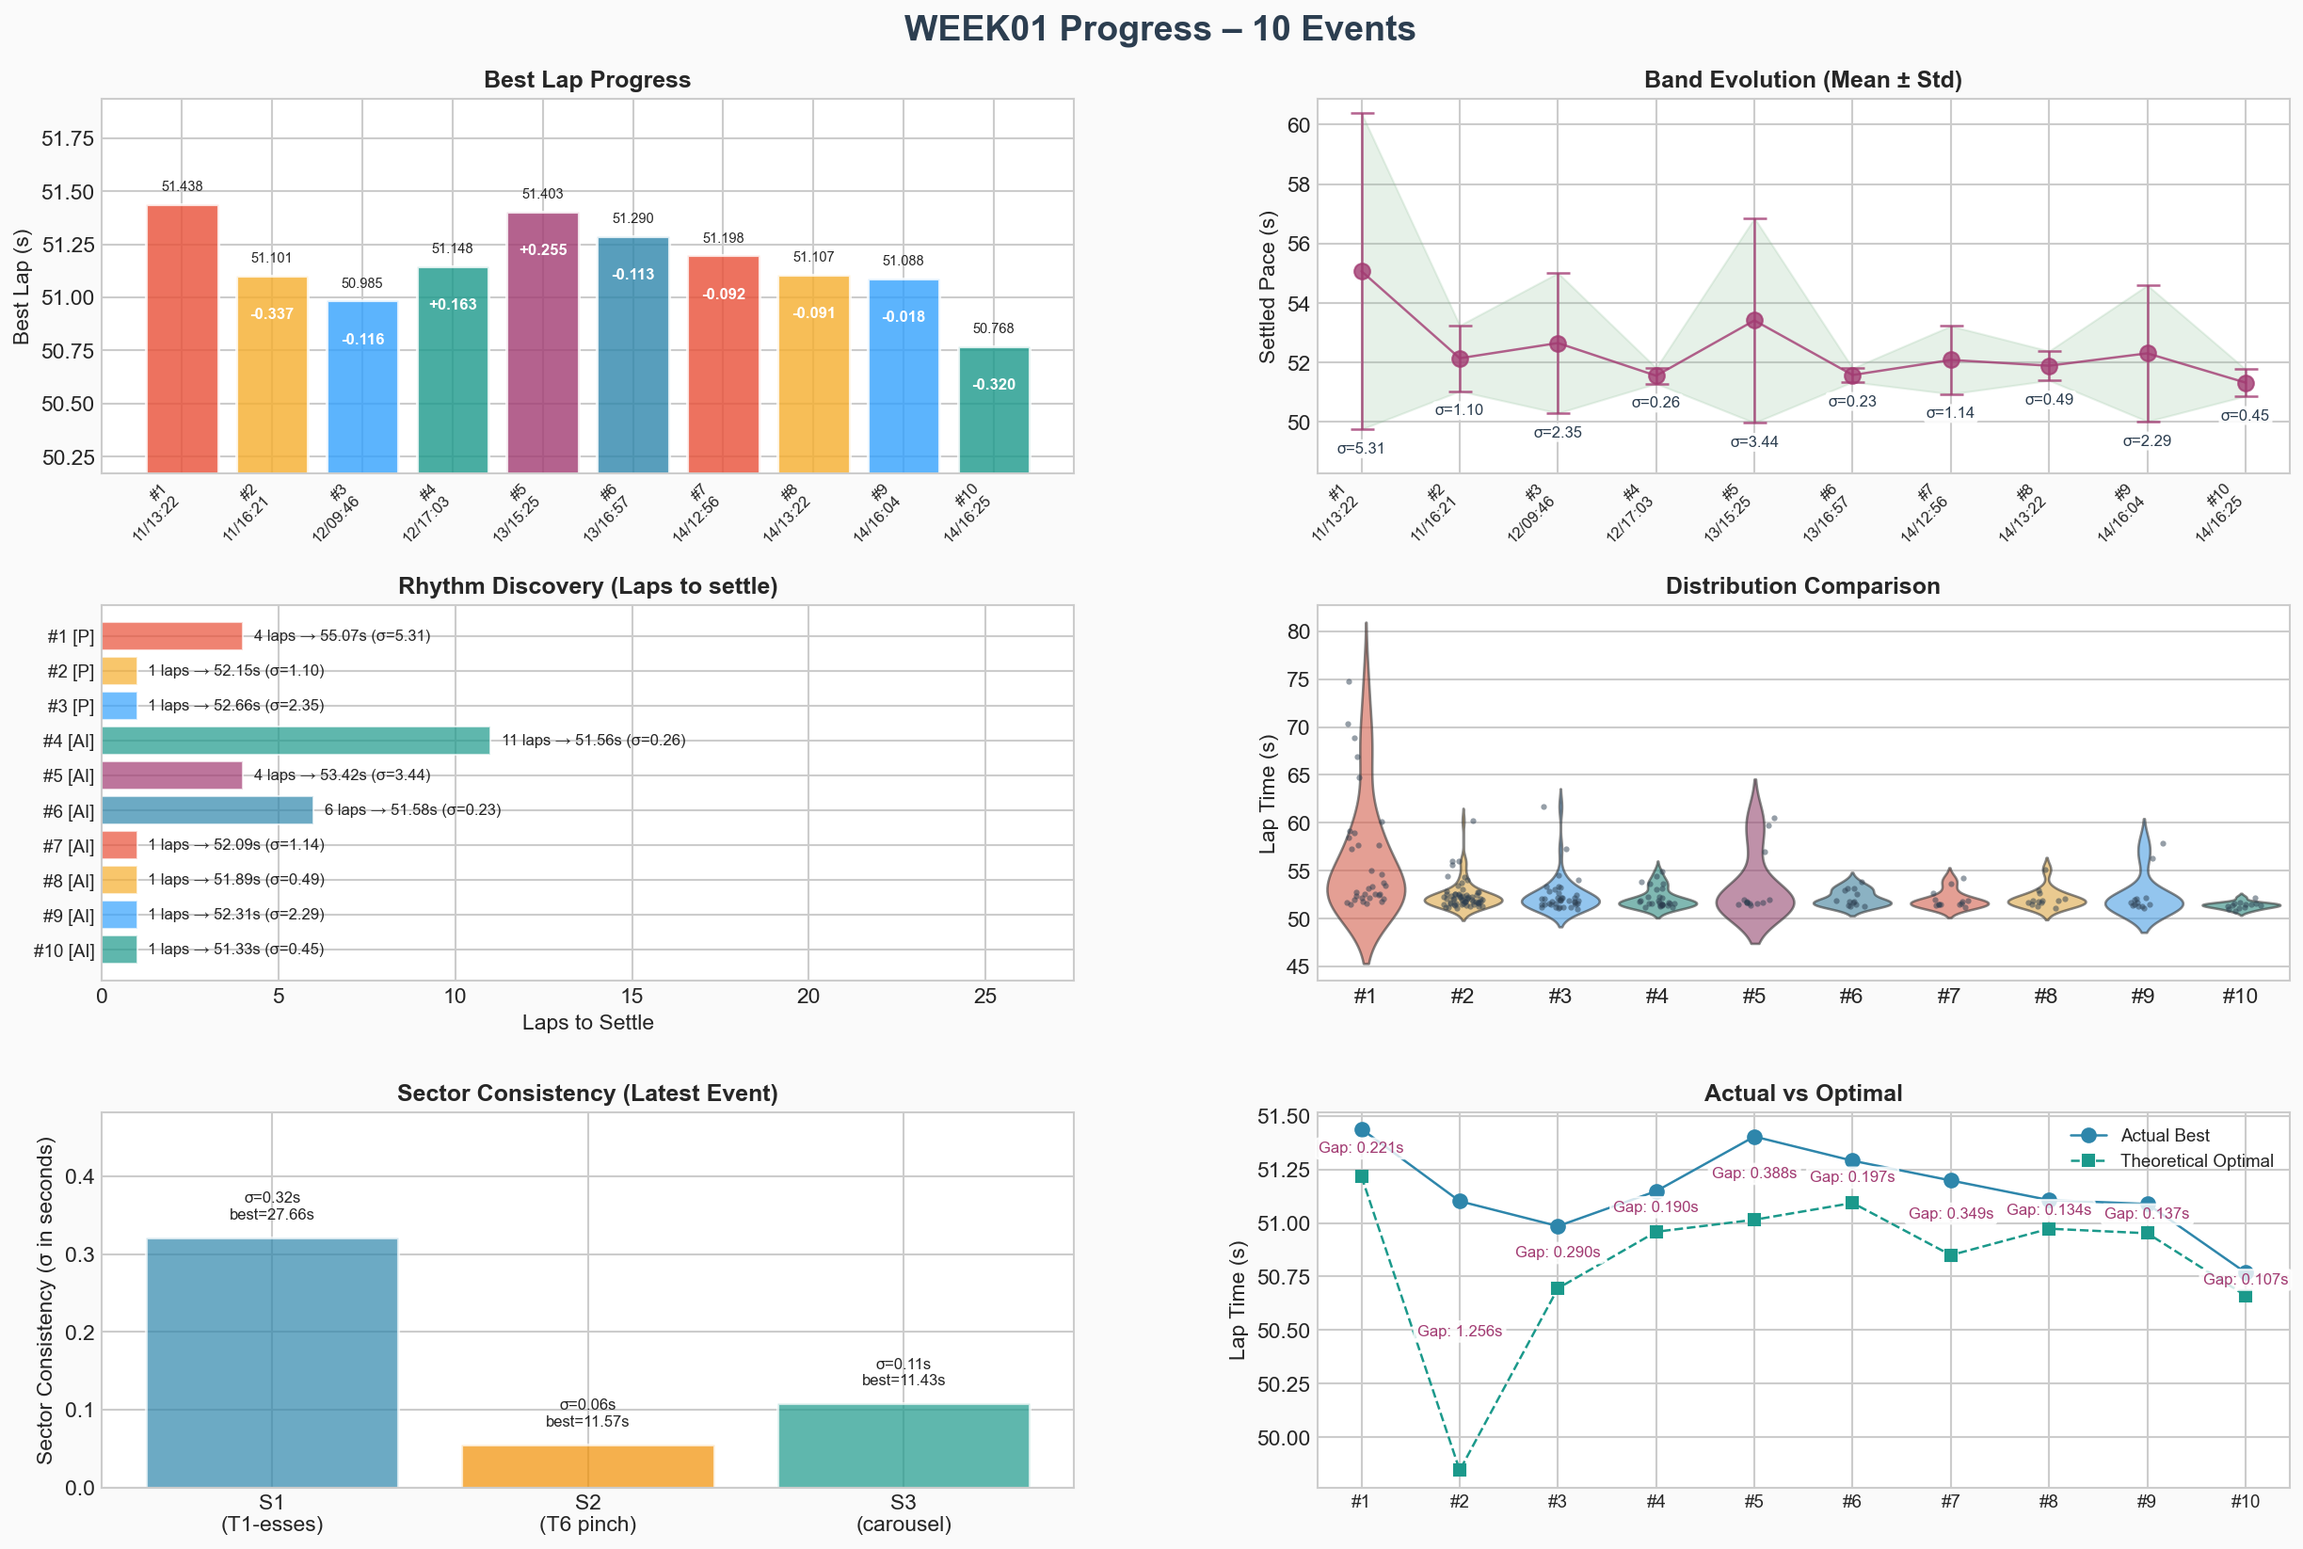
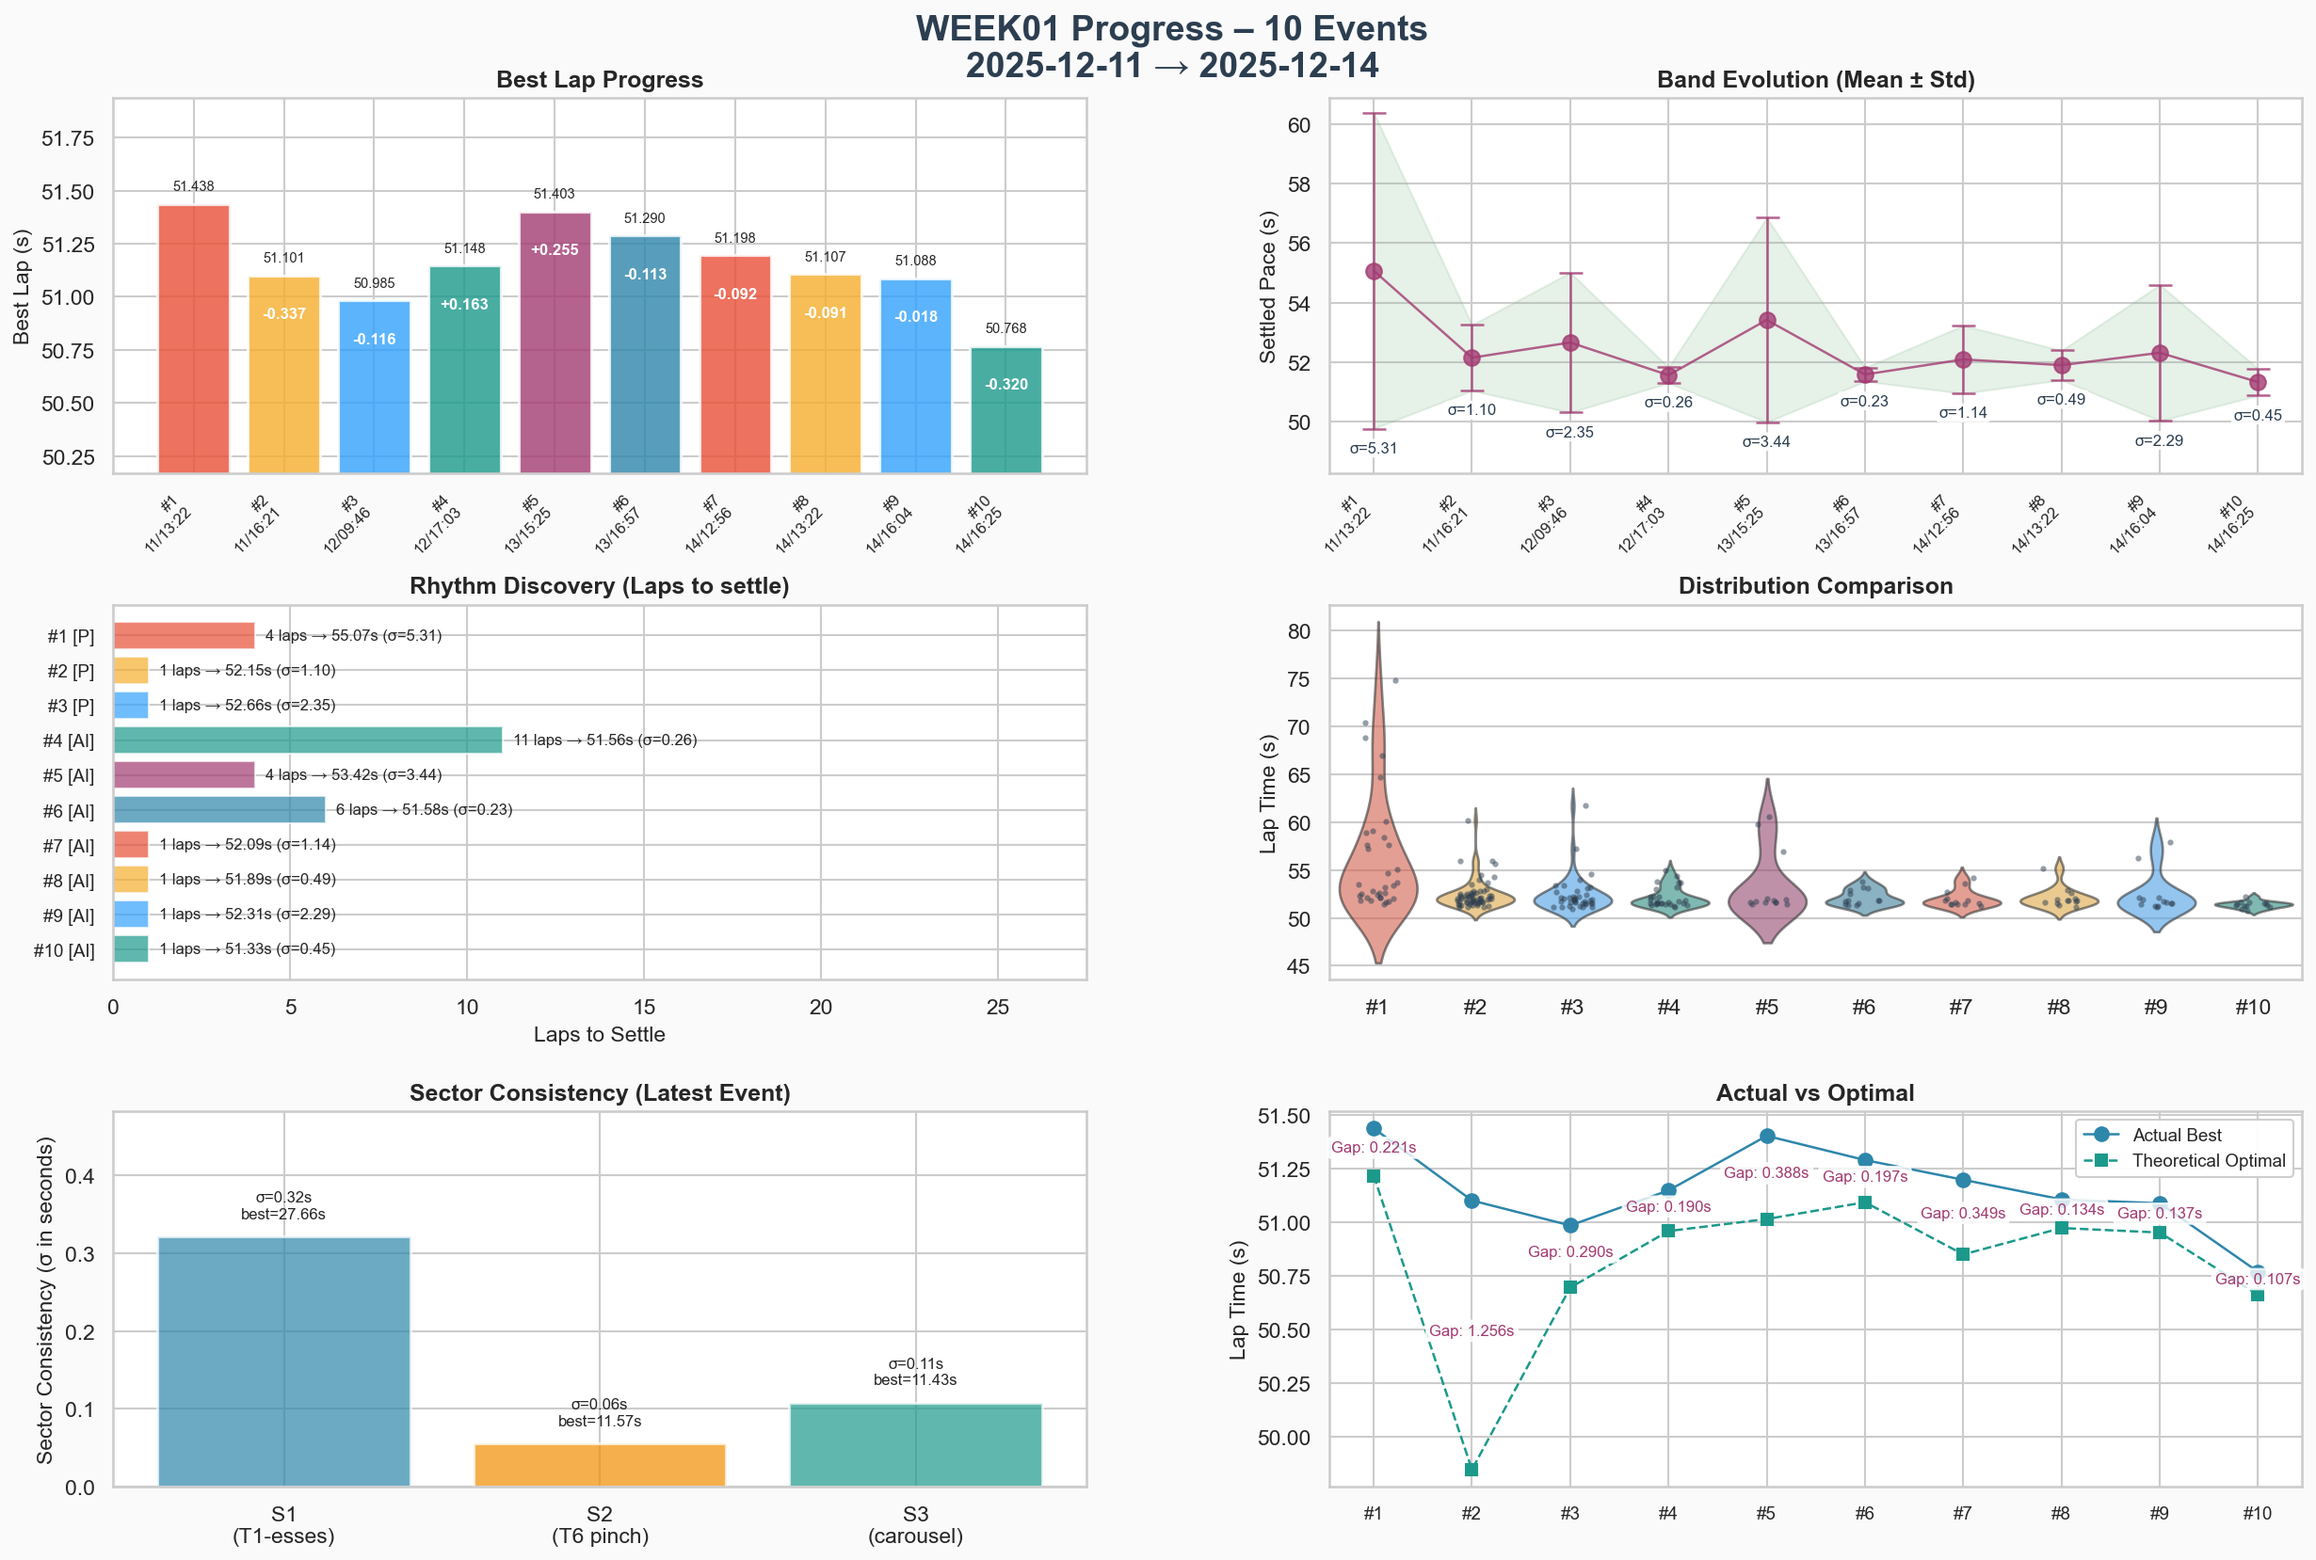
Update Week 01 documentation: revise event statistics to reflect additional practice events and improved lap times. Enhance key learning insights and update progress images for better clarity in performance metrics.

diff --git a/tools/add_event.py b/tools/add_event.py
@@ -103,10 +103,10 @@ def parse_event_stats(md_path: Path) -> dict:
     stats: dict[str, float | int] = {}
 
     # Match lines like: | **Label** | value |
-    row_re = re.compile(r"\|\s*\*{0,2}(.*?)\*{0,2}\s*\|\s*([0-9.]+)")
+    row_re = re.compile(r"\|\s*([^|]+?)\s*\|\s*([0-9.]+)")
 
     for label_raw, value_raw in row_re.findall(content):
-        label_norm = label_raw.strip().lower()
+        label_norm = label_raw.replace('*', '').strip().lower()
         key = METRIC_KEY_MAP.get(label_norm)
         if not key:
             continue

diff --git a/weeks/week01/README.md b/weeks/week01/README.md
@@ -12,17 +12,16 @@ week: 01
 
 | # | Date | Type | Laps | Best | σ | Notes | Details |
 |---|------|------|------|------|---|-------|---------|
-| 1 | 2025-12-11 | solo | ? | 0.000s | 0.00s | First contact | [→](events/01-2025-12-11-solo.md) |
-| 2 | 2025-12-11 | solo | ? | 0.000s | 0.00s | Finding rhythm | [→](events/02-2025-12-11-solo.md) |
-| 3 | 2025-12-12 | solo | ? | 0.000s | 0.00s | **PB lap** 🏆 | [→](events/03-2025-12-12-solo.md) |
-| 4 | 2025-12-12 | ai race | ? | 0.000s | 0.00s | Race pace! | [→](events/04-2025-12-12-ai-race.md) |
-| 5 | 2025-12-13 | ai race | ? | 0.000s | 0.00s | Patience test | [→](events/05-2025-12-13-ai-race.md) |
-| 6 | 2025-12-13 | ai race | ? | 0.000s | 0.00s | **Patience works** ✅ | [→](events/06-2025-12-13-ai-race.md) |
-| 7 | 2025-12-14 | ai race | ? | 0.000s | 0.00s | **Patience validated** | [→](events/07-2025-12-14-ai-race.md) |
-| 8 | 2025-12-14 | ai race | ? | 0.000s | 0.00s | **Ready for the grid** | [→](events/08-2025-12-14-ai-race.md) |
-| 9 | 2025-12-14 | ai race | ? | 0.000s | 0.00s | _Add notes..._ | [→](events/09-2025-12-14-ai-race.md) |
-| 10 | 2025-12-14 | ai race | 13 | 50.768s | 0.36s | _Add notes..._ | [→](events/10-2025-12-14-ai-race.md) |## Week Progress
-
+| 1 | 2025-12-11 | solo | 34 | 51.438s | 6.08s | First contact | [→](events/01-2025-12-11-solo.md) |
+| 2 | 2025-12-11 | solo | 63 | 51.101s | 1.47s | Finding rhythm | [→](events/02-2025-12-11-solo.md) |
+| 3 | 2025-12-12 | solo | 40 | 50.985s | 1.90s | **PB lap** 🏆 | [→](events/03-2025-12-12-solo.md) |
+| 4 | 2025-12-12 | ai race | 29 | 51.148s | 1.03s | Race pace! | [→](events/04-2025-12-12-ai-race.md) |
+| 5 | 2025-12-13 | ai race | 13 | 51.403s | 3.21s | Patience test | [→](events/05-2025-12-13-ai-race.md) |
+| 6 | 2025-12-13 | ai race | 13 | 51.290s | 0.81s | **Patience works** ✅ | [→](events/06-2025-12-13-ai-race.md) |
+| 7 | 2025-12-14 | ai race | 13 | 51.198s | 0.92s | **Patience validated** | [→](events/07-2025-12-14-ai-race.md) |
+| 8 | 2025-12-14 | ai race | 13 | 51.107s | 1.03s | **Ready for the grid** | [→](events/08-2025-12-14-ai-race.md) |
+| 9 | 2025-12-14 | ai race | 13 | 51.088s | 2.12s | _Add notes..._ | [→](events/09-2025-12-14-ai-race.md) |
+| 10 | 2025-12-14 | ai race | 13 | 50.768s | 0.36s | _Add notes..._ | [→](events/10-2025-12-14-ai-race.md) |
 ![Week Progress](images/week-progress.png)
 
 ## Lap Comparison
@@ -33,7 +32,7 @@ week: 01
 
 - **Events:** 10
 - **Best Lap:** 50.768s
-- **Improvement:** +0.000s (from 50.768s)
+- **Improvement:** +0.670s (from 51.438s)
 - **Latest σ:** 0.36s
 
 ## Reflection
@@ -64,3 +63,29 @@ week: 01
 ---
 
 [← Back to Season](../../README.md)
+
+
+---
+
+### Week Progress Summary
+
+![Week Progress](../images/week01/week-progress.png)
+
+| #   | Date        | Type     | Laps | Best    | Settled | σ     |
+| --- | ----------- | -------- | ---- | ------- | ------- | ----- |
+| 1   | 12/11 13:22 | Practice | 33   | 51.438s | 55.073s | 5.31s |
+| 2   | 12/11 16:21 | Practice | 62   | 51.101s | 52.146s | 1.10s |
+| 3   | 12/12 09:46 | Practice | 39   | 50.985s | 52.657s | 2.35s |
+| 4   | 12/12 17:03 | AI       | 28   | 51.148s | 51.558s | 0.26s |
+| 5   | 12/13 15:25 | AI       | 13   | 51.403s | 53.417s | 3.44s |
+| 6   | 12/13 16:57 | AI       | 13   | 51.290s | 51.581s | 0.23s |
+| 7   | 12/14 12:56 | AI       | 13   | 51.198s | 52.088s | 1.14s |
+| 8   | 12/14 13:22 | AI       | 13   | 51.107s | 51.895s | 0.49s |
+| 9   | 12/14 16:04 | AI       | 13   | 51.088s | 52.311s | 2.29s |
+| 10   | 12/14 16:25 | AI       | 13   | 50.768s | 51.326s | 0.45s |
+
+**Progress:**
+
+- Best lap: 51.438s → 50.768s (+0.670s)
+- Consistency: σ 5.31s → σ 0.45s (+4.86s tighter)
+- Gap to optimal: 0.107s

diff --git a/README.md b/README.md
@@ -10,18 +10,18 @@ iRacing 2026 Season 1 runs **December 16, 2025 → March 9, 2026** (12 weeks). B
 - **Car:** [Ray FF1600](cars/car-ray-ff1600.md)
 - **Track:** [Summit Point Jefferson Circuit](tracks/track-summit-point-jefferson-circuit.md)
 - **Official race schedule:** Tuesday 2025-12-16 → 2025-12-22
-- **Status:** Practice complete – 8 events, 214 flying laps, ready for race week! 🏁
+- **Status:** Practice complete – 10 events, ready for race week! 🏁
 
 ## Week 01 Summary
 
-| Metric              | Start (Event #1) | Best Achieved    | Latest (Event #8) |
-| ------------------- | ---------------- | ---------------- | ----------------- |
-| **Best lap**        | 51.438s          | **50.985s** (#3) | 51.107s           |
-| **Consistency (σ)** | 6.08s            | **0.81s** (#6)   | 1.03s             |
-| **Coasting %**      | 12.2%            | **1.7%** (#4)    | 8.9%              |
-| **Gap to optimal**  | 2.8s             | **0.13s** (#8)   | 0.13s             |
+| Metric              | Start (Event #1) | Best Achieved     | Latest (Event #10) |
+| ------------------- | ---------------- | ----------------- | ------------------ |
+| **Best lap**        | 51.438s          | **50.768s** (#10) | 50.768s            |
+| **Consistency (σ)** | 5.31s            | **0.23s** (#6)    | 0.36s              |
+| **Coasting %**      | 3.9%             | **1.7%** (#4)     | 7.0%               |
+| **Gap to optimal**  | 2.8s             | **0.11s** (#10)   | 0.11s              |
 
-**Key learning:** Patience in traffic validated. σ 3.21s (impatient) → 0.81s (patient) in back-to-back races.
+**Key learning:** "Survival Protocol" unlocked speed. Treating laps 1-3 as survival instead of racing dropped σ from 3.44s to 0.23s. 100% clean laps in final two race simulations.
 
 ---
 
